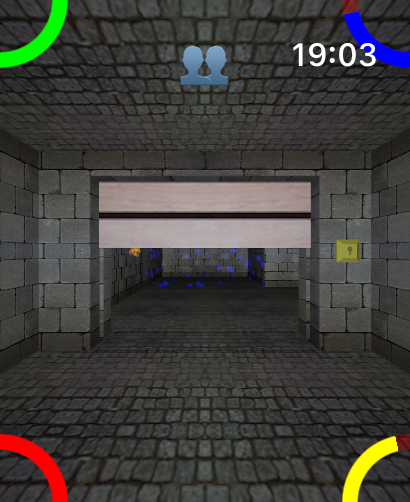
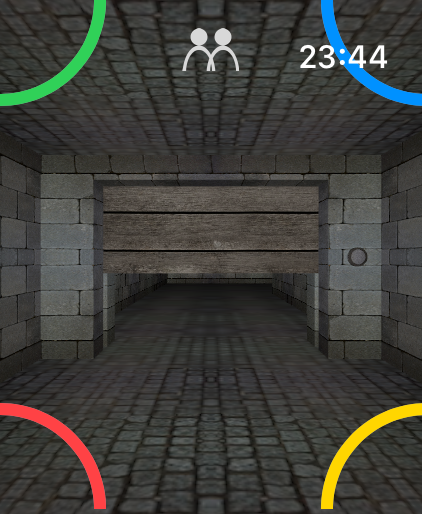
R4.3 Post

diff --git a/_posts/2026-03-23-escape-the-dungeon-maze-r43-released.md b/_posts/2026-03-23-escape-the-dungeon-maze-r43-released.md
@@ -1,0 +1,76 @@
+---
+layout: post
+permalink: /escape-the-dungeon-maze-r43-released/
+title: R4.3 Released - Apple TV, Game Controller Support & More
+description: The March 2026 update brings Apple TV support, game controller integration across all platforms, and render improvements
+date: 2026-03-23 09:00:00 -0000
+last_modified_at: 2026-03-23 09:00:00 -0000
+publish: true
+pin: false
+categories:
+- Escape The Dungeon Maze
+- Game Development
+tags: [ETM]
+---
+
+The March 2026 update <span style="background-color: #4CAF50; color: white; padding: 3px 8px; border-radius: 12px; font-size: 0.85em; margin-left: 5px;">R4.3 - March 2026</span> for "The Dungeon - Get Out" and the corresponding Level Editor is now **officially released**!
+
+This is a big one — Apple TV support is finally here, and game controllers now work across all platforms!
+
+## Apple TV
+
+<div style="display: flex; gap: 10px; margin: 20px 0;">
+  <img src="/assets/2026/03/ETMTV1.jpg" alt="The Dungeon - Get Out on Apple TV" style="width: 100%;">
+</div>
+
+"The Dungeon - Get Out" is now available on **Apple TV**! Explore the dungeon on the big screen — crawl through corridors, battle monsters, and solve riddles from the comfort of your couch.
+
+## Game Controller Support
+
+<div style="display: flex; gap: 10px; margin: 20px 0;">
+  <img src="/assets/2026/03/GameController.jpg" alt="Game Controller Support" style="width: 100%;">
+</div>
+
+Game controllers are now fully supported across **iOS, iPadOS, Mac, and Apple TV**. Connect your favourite controller and enjoy a more immersive dungeon crawling experience on every platform.
+
+## Improved Apple Watch Controls
+
+<div style="display: flex; gap: 10px; margin: 20px 0;">
+  <img src="/assets/2026/03/ETMWatch1.png" alt="Apple Watch Improvements" style="width: 48%;">
+</div>
+
+The Apple Watch experience has also been improved with better and more responsive controls, making it easier to navigate the dungeon on your wrist.
+
+## What's New
+
+- **Apple TV port** — play on the big screen
+- **Game Controller support** — iOS, iPadOS, Mac, and Apple TV
+- **New door textures** — dungeons look better than ever
+- **Improved Apple Watch controls**
+- **Render fixes**:
+  - Fountain
+  - Alcove
+  - Hero magic view
+  - Monster kill animation positioning
+
+## Bug Fixes & Stability
+- Various bug fixes and stability improvements throughout the game
+
+---
+
+Thank you for playing! More adventures await in the maze. Development is still ongoing — stay tuned for the next updates!
+
+<div style="display: flex; justify-content: space-around; align-items: center;">
+  <div style="text-align: center;">
+    <a href="https://apps.apple.com/app/escapethemaze/id1502853397">
+      <img src="/assets/Download.svg" alt="Download">
+    </a>
+  <p>Download the Game</p>
+  </div>
+  <div style="text-align: center;">
+    <a href="https://apps.apple.com/app/etdm-level-editor/id1561041898">
+      <img src="/assets/Download.svg" alt="Download" >
+    </a>
+    <p>Download the Level Editor</p>
+  </div>
+</div>

diff --git a/_pages/etdm.md b/_pages/etdm.md
@@ -24,7 +24,8 @@ The only way out is forward. Survive the maze, uncover the truth, and perhaps—
 
 
 ![ETM9](/assets/games/ETM/ETM0.png)| ![ETM10](/assets/games/ETM/ETM1.png) 
-![ETM11](/assets/games/ETM/ETM2.png)| ![ETM12](/assets/games/ETM/ETM3.png) 
+![ETM11](/assets/games/ETM/ETM2.png)| ![ETM12](/assets/games/ETM/ETM3.png)
+![ETM1TV0](/assets/games/ETM/ETMTV0.png)| ![ETMTV2](/assets/games/ETM/ETMTV1.png)  
 
 
 This tutorial is work in progress and will be improved step by step. If you need help on a not documented part, please send me an email. I'm happy to help.

diff --git a/_pages/my-games.md b/_pages/my-games.md
@@ -93,6 +93,7 @@ Supports iCloud for multiple platforms: Start on your iPhone or iPad and continu
 
 ![ETM9](/assets/games/ETM/ETM0.png)| ![ETM10](/assets/games/ETM/ETM1.png) 
 ![ETM11](/assets/games/ETM/ETM2.png)| ![ETM12](/assets/games/ETM/ETM3.png) 
+![ETM1TV0](/assets/games/ETM/ETMTV0.png)| ![ETMTV2](/assets/games/ETM/ETMTV1.png) 
 
 ## A Dungeon Editor for The Dungeon - Get Out:
 
